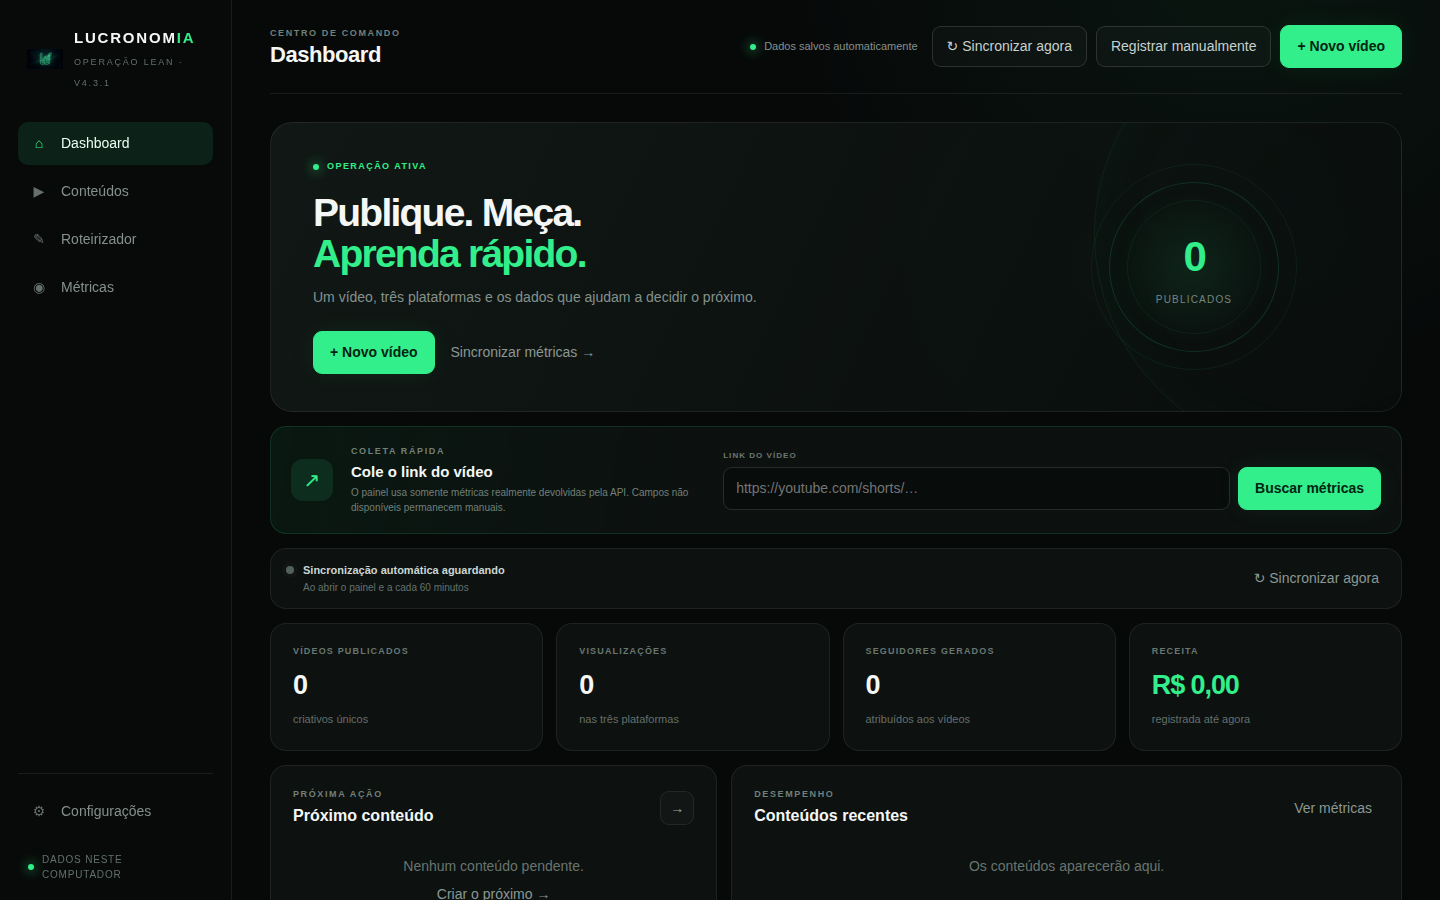
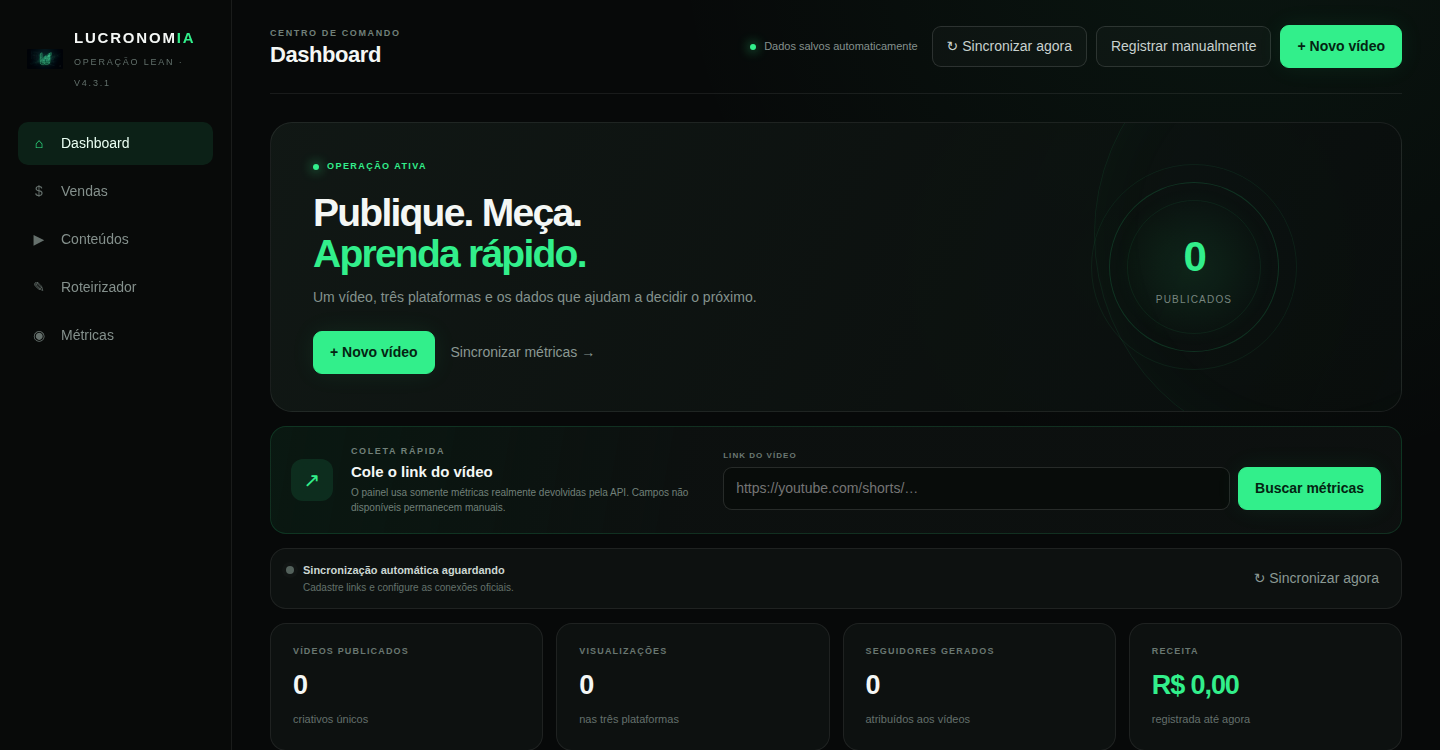
Collapse all Produtos boxes by default; update Painel de Dados screenshot
Confirma no longer opens by default — all three products start
collapsed, user picks what to expand. Painel de Dados preview replaced
with a fresh capture from the real app's clean state (no fabricated
data), now showing the Vendas tab in the nav.

diff --git a/index.html b/index.html
@@ -336,7 +336,7 @@
   <!-- ================= PRODUTOS ================= -->
   <section id="produtos" class="tabpanel" role="tabpanel">
 
-    <details class="product" id="confirma" open>
+    <details class="product" id="confirma">
       <summary>
         <div class="product-head">
           <h2>Confirma</h2>
